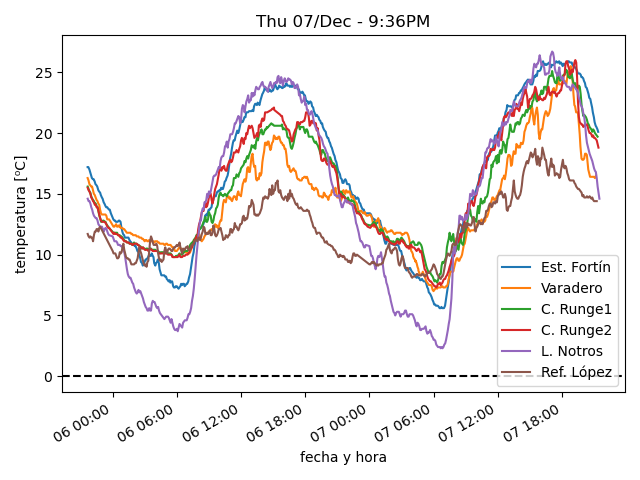
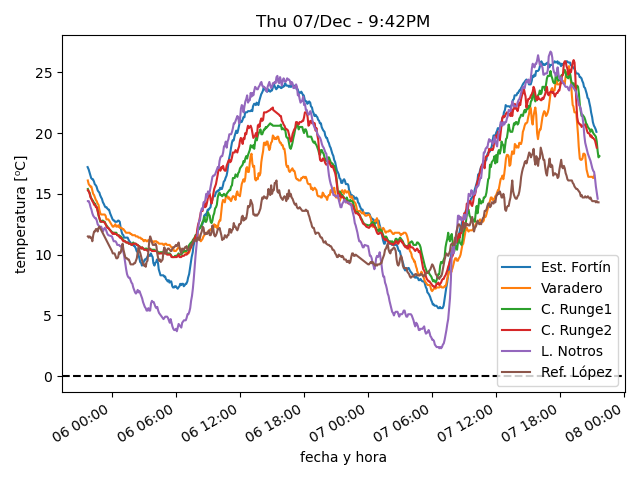
actualiza datos

diff --git a/estaciones/estacion6.html b/estaciones/estacion6.html
@@ -18,32 +18,32 @@
     </tr>
     <tr>
      <td class="stats_data">
-      9:15PM
+      9:35PM
      </td>
     </tr>
     <tr>
      <td class="stats_data">
-      14.4
+      14.3
      </td>
     </tr>
     <tr>
      <td class="stats_data">
-      2.7
+      1.2
      </td>
     </tr>
     <tr>
      <td class="stats_data">
-      45.0
+      41.0
      </td>
     </tr>
     <tr>
      <td class="stats_data">
-      1015.14
+      1015.21
      </td>
     </tr>
     <tr>
      <td class="stats_data">
-      11.3/17.7 W
+      12.9/17.7 W
      </td>
     </tr>
     <tr>
@@ -58,7 +58,7 @@
     </tr>
     <tr>
      <td class="stats_data">
-      900.0
+      901.0
      </td>
     </tr>
    </tbody>

diff --git a/estaciones/estacion3.html b/estaciones/estacion3.html
@@ -18,32 +18,32 @@
     </tr>
     <tr>
      <td class="stats_data">
-      9:19PM
+      9:39PM
      </td>
     </tr>
     <tr>
      <td class="stats_data">
-      19.7
+      18.1
      </td>
     </tr>
     <tr>
      <td class="stats_data">
-      7.6
+      8.0
      </td>
     </tr>
     <tr>
      <td class="stats_data">
-      45.4
+      51.8
      </td>
     </tr>
     <tr>
      <td class="stats_data">
-      1007.52
+      1007.72
      </td>
     </tr>
     <tr>
      <td class="stats_data">
-      3.7/5.2 WSW
+      4.1/4.9 W
      </td>
     </tr>
     <tr>
@@ -58,7 +58,7 @@
     </tr>
     <tr>
      <td class="stats_data">
-      0.4
+      0.0
      </td>
     </tr>
    </tbody>
